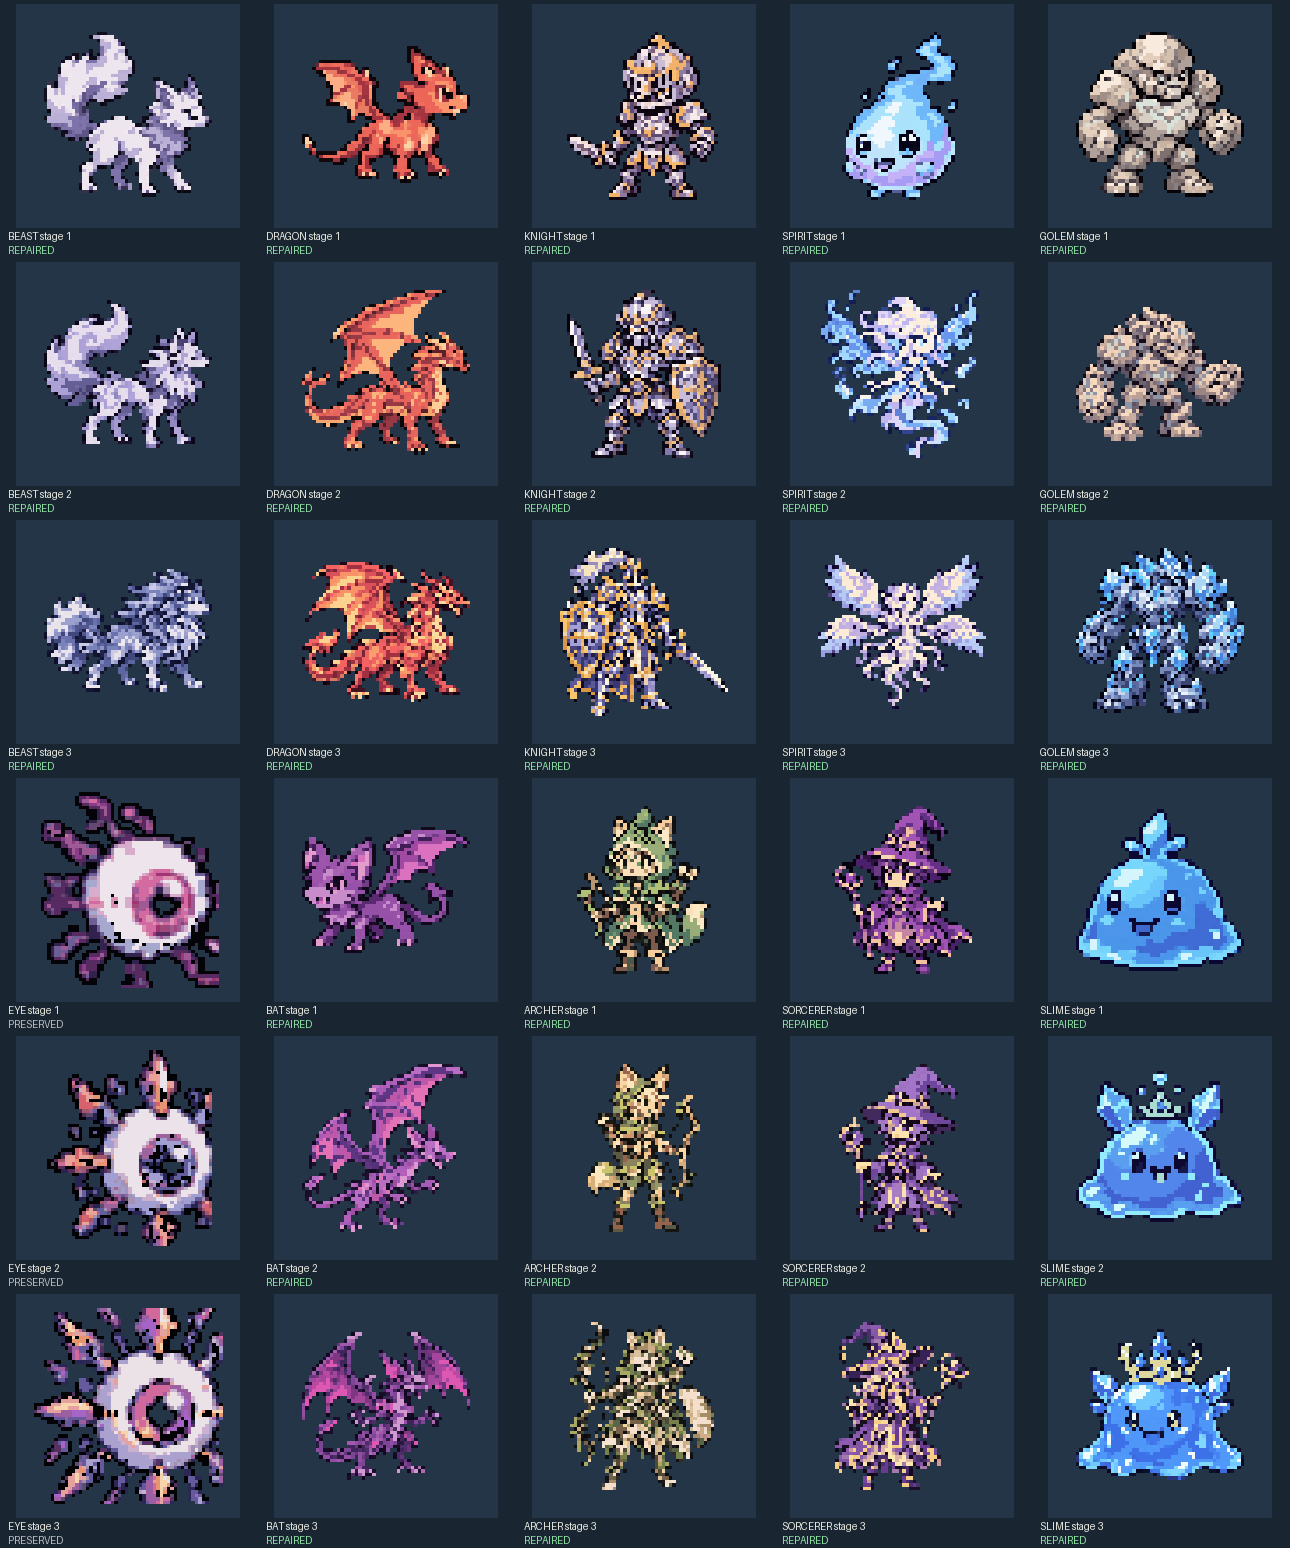
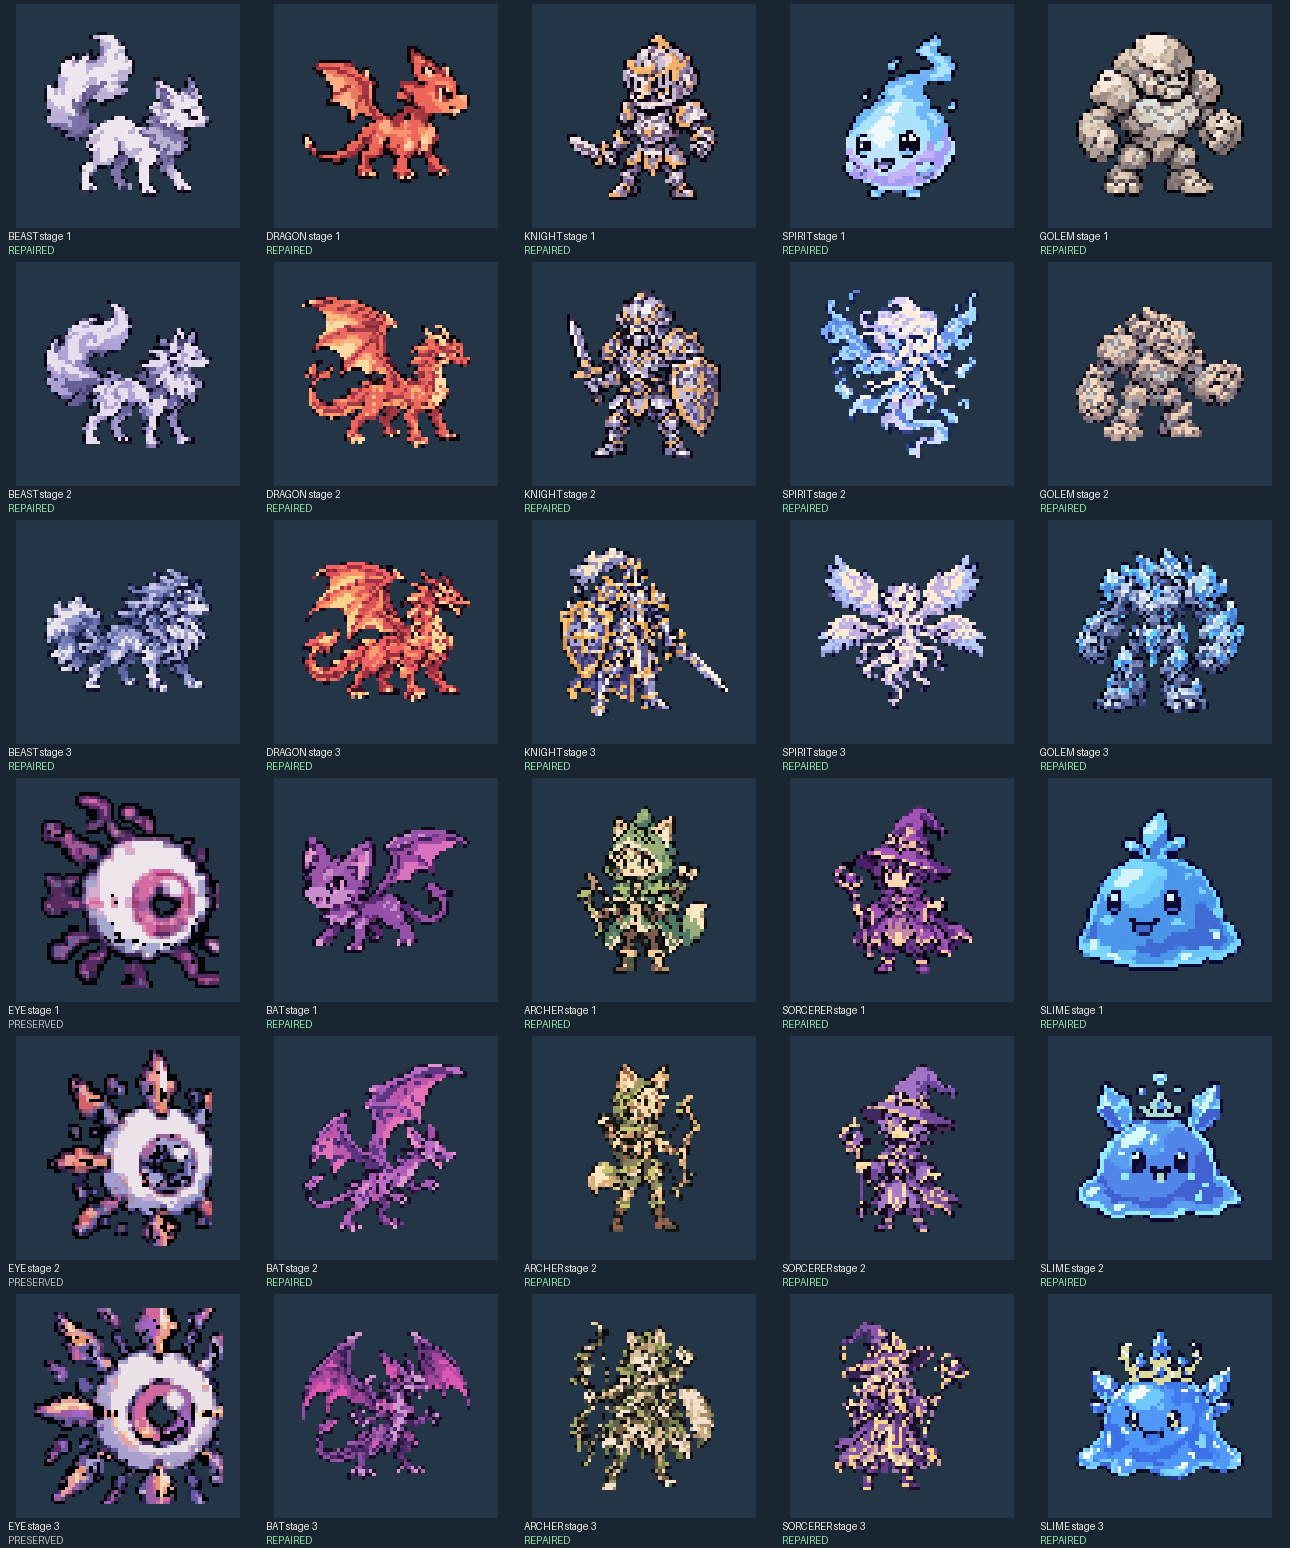
fix(monsterquest): orient red dragon stage-2 wing backward [ui-qa]

Changed region(s): [[0.2171, 0.186, 0.3721, 0.3101]]

diff --git a/monsterquest/src/main/java/dev/glyphlife/monsterquest/pixel/CuratedMonsterRepairs.kt b/monsterquest/src/main/java/dev/glyphlife/monsterquest/pixel/CuratedMonsterRepairs.kt
@@ -19,8 +19,8 @@ internal object CuratedMonsterRepairs {
[1 lines of base64/hex data omitted]
         3 to Entry(intArrayOf(0x00000000L.toInt(), 0xFF0F060AL.toInt(), 0xFF97323EL.toInt(), 0xFF0A0407L.toInt(), 0xFFA43440L.toInt(), 0xFFEF6C5CL.toInt(), 0xFFE87C63L.toInt(), 0xFF13080CL.toInt(), 0xFFED6659L.toInt(), 0xFFFA936BL.toInt(), 0xFF6D262FL.toInt(), 0xFFE26257L.toInt(), 0xFFB43F47L.toInt(), 0xFFFBD3A7L.toInt(), 0xFFEB6659L.toInt(), 0xFFFBAE84L.toInt()),
[1 lines of base64/hex data omitted]
-        4 to Entry(intArrayOf(0x00000000L.toInt(), 0xFF0C0709L.toInt(), 0xFFF0735FL.toInt(), 0xFFE6625AL.toInt(), 0xFFFC9E6CL.toInt(), 0xFFE7675EL.toInt(), 0xFF5B212BL.toInt(), 0xFF983946L.toInt(), 0xFFA53F49L.toInt(), 0xFF84353DL.toInt(), 0xFFD65D55L.toInt(), 0xFFE9675EL.toInt(), 0xFFFCB67DL.toInt(), 0xFFF3A76EL.toInt(), 0xFFFCCF97L.toInt(), 0xFFDC6D5DL.toInt()),
[1 lines of base64/hex data omitted]
+        4 to Entry(intArrayOf(0x00000000L.toInt(), 0xFF19050FL.toInt(), 0xFFEE695FL.toInt(), 0xFFF17261L.toInt(), 0xFFEB645BL.toInt(), 0xFF090206L.toInt(), 0xFFFCDAA4L.toInt(), 0xFFFAB982L.toInt(), 0xFF84303CL.toInt(), 0xFF4D1924L.toInt(), 0xFFFCA16EL.toInt(), 0xFFA23845L.toInt(), 0xFFC85353L.toInt(), 0xFFA83D49L.toInt(), 0xFFE86B5FL.toInt(), 0xFFF3A16FL.toInt()),
[1 lines of base64/hex data omitted]
         5 to Entry(intArrayOf(0x00000000L.toInt(), 0xFF200717L.toInt(), 0xFFF36363L.toInt(), 0xFF742734L.toInt(), 0xFF0F040EL.toInt(), 0xFF441322L.toInt(), 0xFFF87D66L.toInt(), 0xFFA03042L.toInt(), 0xFFF99E6DL.toInt(), 0xFFDA5159L.toInt(), 0xFFF79367L.toInt(), 0xFFC1464EL.toInt(), 0xFFFCD28FL.toInt(), 0xFFE65E5EL.toInt(), 0xFFFCDC9EL.toInt(), 0xFFD97760L.toInt()),
[1 lines of base64/hex data omitted]
         6 to Entry(intArrayOf(0x00000000L.toInt(), 0xFF100813L.toInt(), 0xFFF0DAD3L.toInt(), 0xFFF2B168L.toInt(), 0xFFF9BD73L.toInt(), 0xFF08040BL.toInt(), 0xFF0E0711L.toInt(), 0xFF0C050FL.toInt(), 0xFFF7EAE8L.toInt(), 0xFF8D79A2L.toInt(), 0xFF5B4A71L.toInt(), 0xFF281A28L.toInt(), 0xFF7F5F74L.toInt(), 0xFFBDAFC9L.toInt(), 0xFFCABED2L.toInt(), 0xFFB8887BL.toInt()),
